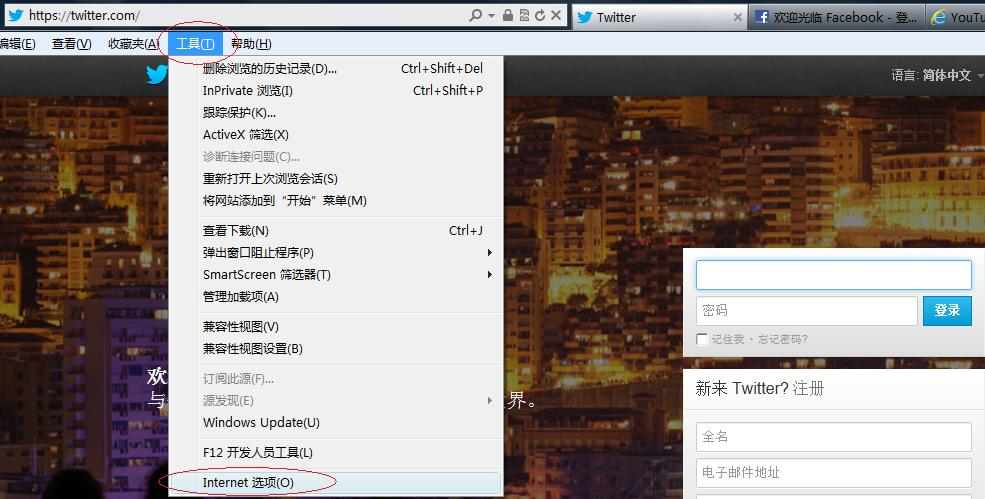
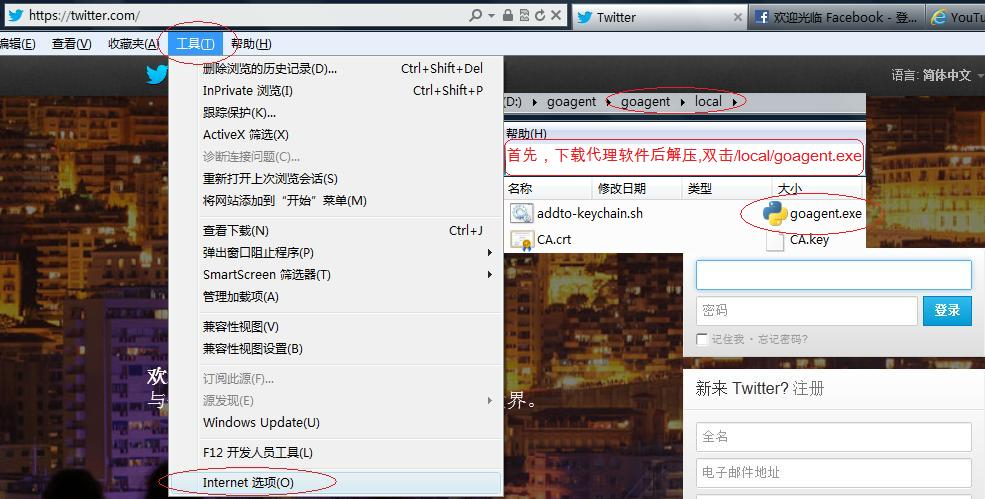
modify html

Changed region(s): [[0.4873, 0.1503, 0.8832, 0.511], [0.2437, 0.992, 0.2741, 1.0]]

diff --git a/goagent.html b/goagent.html
@@ -5,13 +5,14 @@
 <h2>IE浏览器快速体验使用</h2>
 <p>
 首先<a href="https://nodeload.github.com/325862401/goagent/zip/master" rel="nofollow">下载GoAgent代理软件</a><br>
-双击\local\goagent.exe
-请参考附件中的图片配置自动代理脚本<b>http://127.0.0.1:8086/proxy.pac</b><br>
+解压后双击<font color="red">\local\goagent.exe</font>
+请参考附件中的图片配置自动代理脚本<b>http://127.0.0.1:8086/proxy.pac</b>(复制到internet选项)<br>
 在IE浏览器中打开<a href="http://www.facebook.com" rel="nofollow">www.facebook.com</a>
 或者<a href="https://code.google.com/p/goagent/" rel="nofollow">https://code.google.com/p/goagent/</a><br>
-是否可以打开网站了呢？如果可以恭喜您，你已经穿越成功<br>
+是否可以打开网站了呢？如果可以，恭喜您，你已经穿越成功<br>
+<br>
 但是仍然强烈建议你按下面的步骤注册自己的appid，因为每个appid每天有1G的流量限制<br>
-使用firefox或者google chrome,因为IE切换代理很麻烦<br>
+推荐使用<a href="http://firefox.com.cn/" rel="nofollow">firefox</a>或者<a href="http://www.google.com/intl/zh-CN/chrome/browser/" rel="nofollow">google chrome</a>,因为IE切换代理很麻烦<br>
 深入的使用方法请参考<a href="https://code.google.com/p/goagent/" rel="nofollow">https://code.google.com/p/goagent/</a><br>
 如有不明白，自己百度或google搜索goagent，网上资料很多<br>
 </p>
@@ -28,8 +29,8 @@
 感谢GoAgent的作者开发并一直维护这个上网必备软件<br>
 如果你觉得这封邮件对你有用，<b>转发给你的朋友哈</b><br>
 或者随时关注<a href="https://code.google.com/p/goagent/" rel="nofollow">https://code.google.com/p/goagent/</a>的更新<br>
-这封邮件是通过python邮件程序<a href="https://github.com/325862401/spread_goagent" rel="nofollow">spread_goagent</a>自动发送的<br>
-你也可以通过这个程序给别人发送邮件推广GoAgent<br>
-谢谢你对自由软件的支持！
+谢谢你对自由软件的支持！<br>
+<br>
+Best Regards~~<br>
 
 </p>

diff --git a/spread_goagent.py b/spread_goagent.py
@@ -56,7 +56,7 @@ def smtplogin(server=qq_server,username=qq_fromaddr, password=qq_password):
 def checkQQbymail(qq_s,fromaddr=qq_fromaddr,initaddr=None):
     try:
         if not initaddr:
-            initaddr = random.randint(100000000,999999999)
+            initaddr = str(random.randint(100000000,999999999))
 
         if '@' in initaddr:
             if not re.match(r'^[_a-z0-9-]+(\.[_a-z0-9-]+)*@[a-z0-9-]+(\.[a-z0-9-]+)*(\.[a-z]{2,4})$', initaddr):
